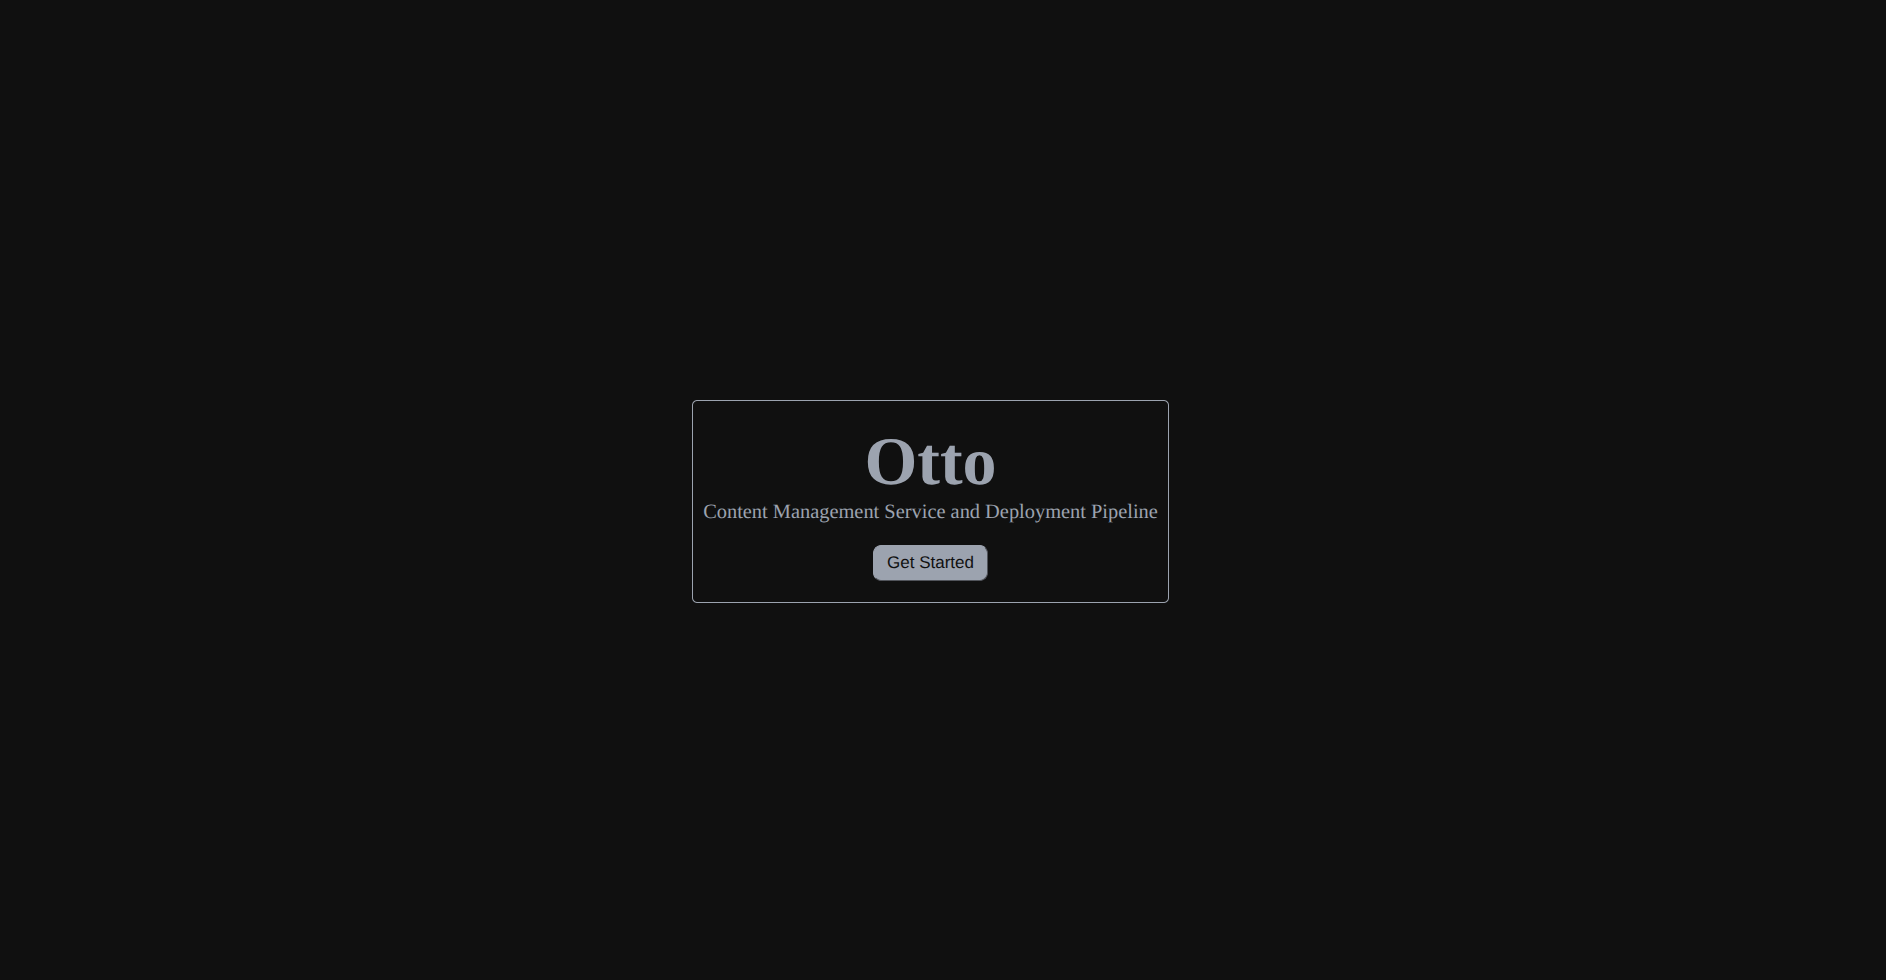
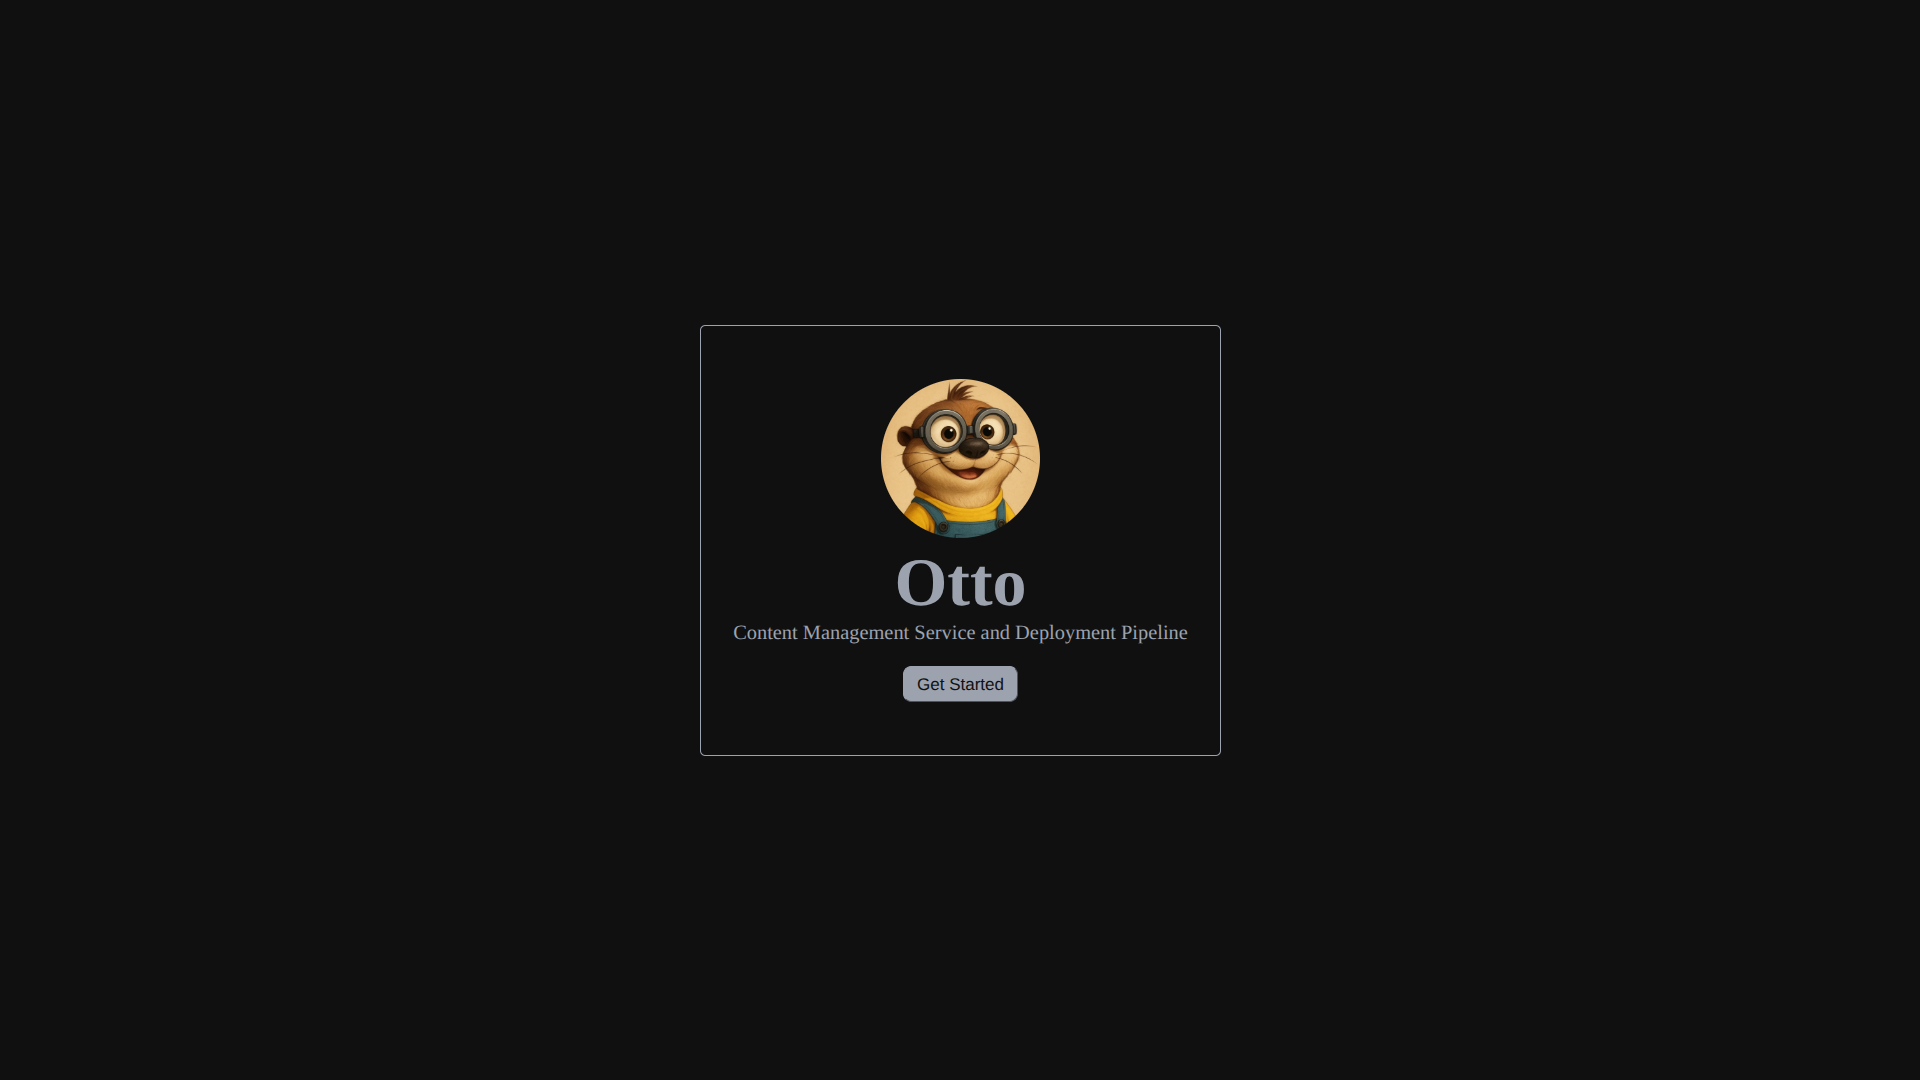
clear button - QOL

Changed region(s): [[0.369, 0.3367, 0.6151, 0.6735]]

diff --git a/article.js b/article.js
@@ -70,10 +70,12 @@ document.addEventListener('DOMContentLoaded', async() => {
     const previewBtn = document.getElementById('previewBtn');
     const publishBtn = document.getElementById('publishBtn');
     const saveBtn = document.getElementById('saveBtn');
+    const clearBtn = document.getElementById('clearBtn');
 
     previewBtn.style.display = 'block'
     publishBtn.style.display = 'block'
     saveBtn.style.display = 'block'
+    clearBtn.style.display = 'block'
 
     const deployBtn = document.getElementById('deployBtn');
     const cancelBtn = document.getElementById('cancelBtn');
@@ -160,7 +162,7 @@ document.addEventListener('DOMContentLoaded', async() => {
         const date = document.querySelector('.date').value;
         const category = document.querySelector('.category').value;
         const content = box.value;
-        const thumbnail = document.querySelector('.thumbnail').value;
+        const thumbnail = document.querySelector('.thumbnail-src').value;
         const credits = document.querySelector('.thumbnail-credits').value;
 
         const payload = { title, description, date, category, content, thumbnail, credits };
@@ -211,6 +213,18 @@ document.addEventListener('DOMContentLoaded', async() => {
         errorP.textContent = "";
     });
 
+    clearBtn.addEventListener('click', () => {
+        localStorage.setItem('ottoDraft', '')
+        heading.textContent = ""
+        document.querySelector('.article-description').value = ""
+        document.querySelector('.date').value = ""
+        box.value = ''
+        console.log(document.querySelector('.thumbnail-src').value)
+        console.log(document.querySelector('.thumbnail-src'))
+        document.querySelector('.thumbnail-src').value = ''
+        document.querySelector('.thumbnail-credits').value = ''
+    })
+
     function saveToLocal() {
         const draft = {
             heading: heading.textContent,
@@ -218,7 +232,7 @@ document.addEventListener('DOMContentLoaded', async() => {
             date: document.querySelector('.date').value,
             category: document.querySelector('.category').value,
             content: box.value,
-            thumbnail: document.querySelector('.thumbnail').value,
+            thumbnail: document.querySelector('.thumbnail-src').value,
             credits: document.querySelector('.thumbnail-credits').value
         };
         localStorage.setItem('ottoDraft', JSON.stringify(draft));
@@ -234,7 +248,7 @@ document.addEventListener('DOMContentLoaded', async() => {
             if (draft.date) document.querySelector('.date').value = draft.date;
             if (draft.category) document.querySelector('.category').value = draft.category;
             if (draft.content) box.value = draft.content;
-            if (draft.thumbnail) document.querySelector('.thumbnail').value = draft.thumbnail;
+            if (draft.thumbnail) document.querySelector('.thumbnail-src').value = draft.thumbnail;
             if (draft.credits) document.querySelector('.thumbnail-credits').value = draft.credits;
 
             autoGrow(box);

diff --git a/article.html b/article.html
@@ -15,6 +15,7 @@
                 <button class="secondary back-btn">Back</button>
                 <button class="secondary" id="previewBtn">Preview</button>
                 <button class="secondary" id="saveBtn">Save</button>
+                <button class="secondary" id="clearBtn">Clear</button>
                 <button class="primary" id="publishBtn">Publish</button>
             </div>
             <div id="articleHeading" class="article-heading editable" contenteditable="true" role="textbox" aria-multiline="true"
@@ -39,7 +40,7 @@
         <section class="dialog">
             <h2>Send it off!</h2>
             <p>Pushing deploy will hit the git service to deploy the article live on The Site.</p>
-            <input class="thumbnail" placeholder="Thumbnail source link" />
+            <input class="thumbnail-src" placeholder="Thumbnail source link" />
             <input class="thumbnail-credits" placeholder="Credits" />
             <div class="dialog-btns">
                 <button class="primary" id="deployBtn">Deploy</button>

diff --git a/global.css b/global.css
@@ -326,12 +326,18 @@ p {
 #landing-page-box {
     border: 1px solid var(--muted);
     border-radius: 5px;
-    padding: 20px 10px;
+    padding: 50px 30px;
     text-align: center;
 }
 
 #landing-page-box h1 {
     font-size: 4rem;
+}
+
+#landing-page-box img {
+    height: 150px;
+    width: 150px;
+    border-radius: 100%;
 }
 
 #landing-page-box button {

diff --git a/index.html b/index.html
@@ -9,6 +9,7 @@
 <body>
     <div class="app" id="landing-page">
       <div id="landing-page-box">
+        <img src="./assets/otto.png" alt="otto-gazes-at-you">
         <h1>Otto</h1>
         <p>Content Management Service and Deployment Pipeline</p>
         <button id="dashboard-btn">Get Started</button>
